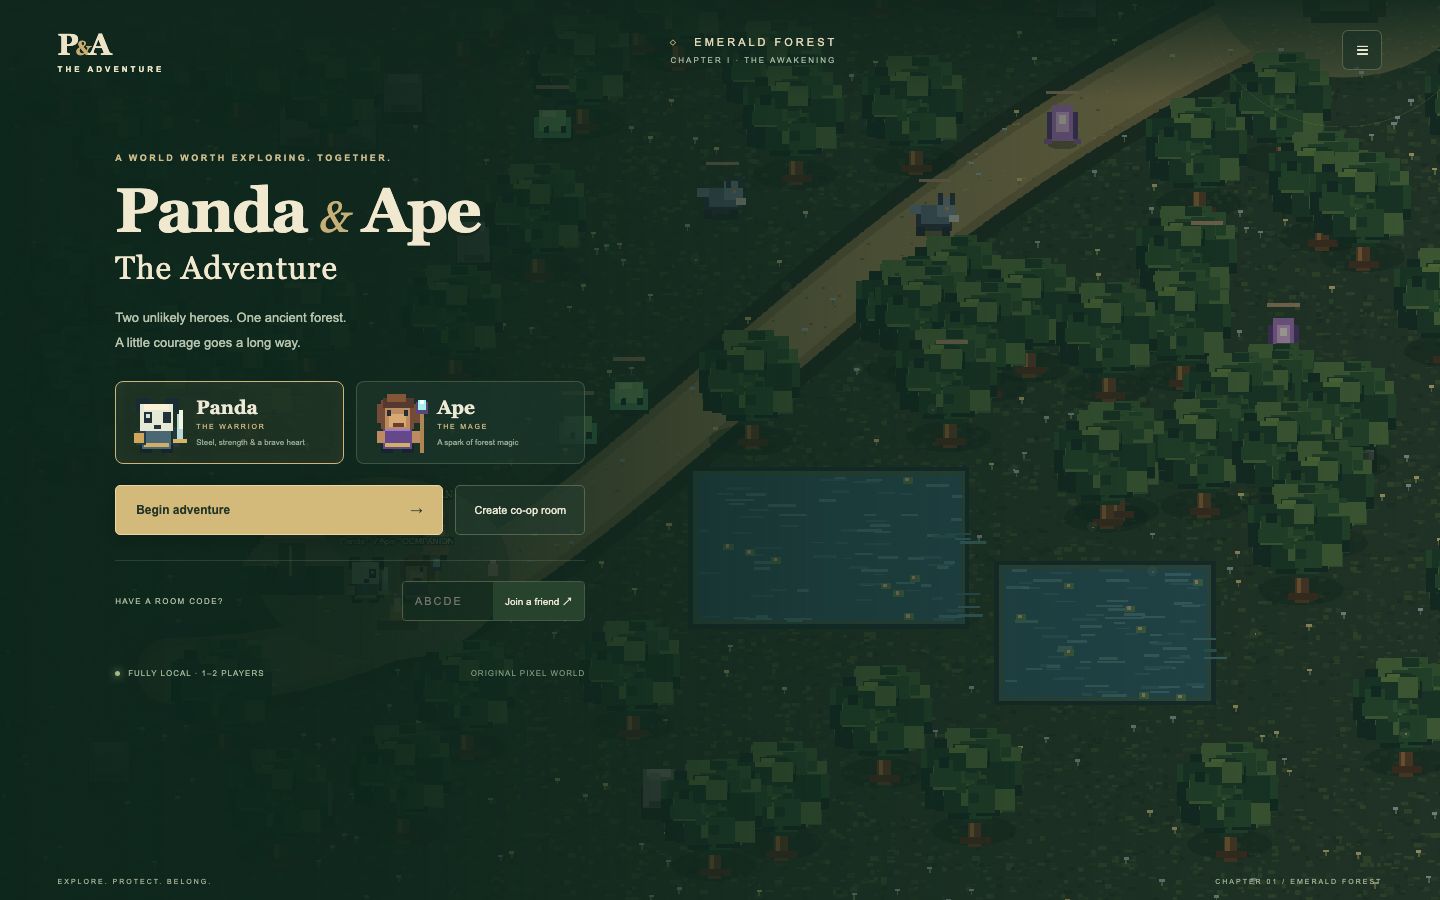
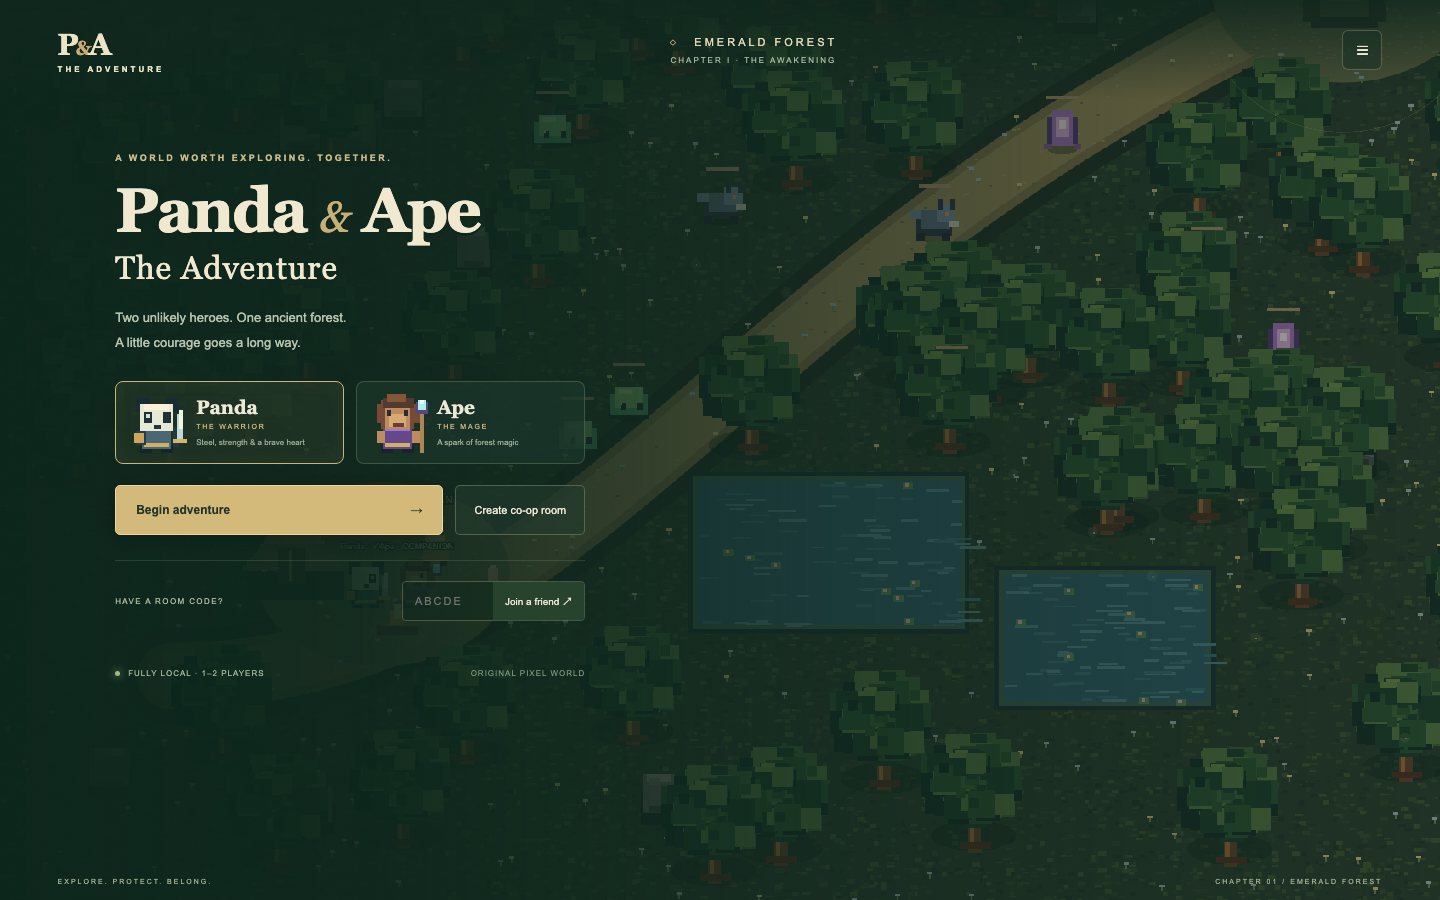
fix: harden reconnect lifecycle and document verified vertical slice

diff --git a/apps/game/src/main.ts b/apps/game/src/main.ts
@@ -242,7 +242,9 @@ function connect(message: ClientMessage, isReconnect = false) {
       if (mode === 'menu') $('menu-error').textContent = m.message;
       else notify(m.message);
       if (!welcomed) {
-        quitting = true;
+        quitting = !(
+          isReconnect && m.message === 'This session is already connected.'
+        );
         connecting = false;
         current.close();
       }
@@ -268,10 +270,10 @@ function connect(message: ClientMessage, isReconnect = false) {
       $('connection-status').textContent = 'CO-OP · RECONNECTING';
       notify('Connection lost. Restoring your session…');
       if (Date.now() - reconnectStart < 55000)
-        setTimeout(
-          () => connect({ type: 'resume', code: roomCode, token }, true),
-          1200,
-        );
+        setTimeout(() => {
+          if (mode === 'online' && !quitting && socket === current)
+            connect({ type: 'resume', code: roomCode, token }, true);
+        }, 1200);
       else {
         notify(
           'Reconnect expired. Return to the title screen and create a new room.',
@@ -509,6 +511,7 @@ function readInput(): Input {
   return i;
 }
 class ForestScene extends Phaser.Scene {
+  vegetation: Phaser.GameObjects.Image[] = [];
   sprites = new Map<string, Phaser.GameObjects.Sprite>();
   labels = new Map<string, Phaser.GameObjects.Text>();
   shadows = new Map<string, Phaser.GameObjects.Ellipse>();
@@ -529,10 +532,12 @@ class ForestScene extends Phaser.Scene {
         this.add
           .ellipse(o.x + o.w / 2, o.y + 12, 100, 36, 0x112e25, 0.34)
           .setDepth(o.y - 2);
-        this.add
-          .image(o.x + o.w / 2, o.y + o.h, 'tree')
-          .setOrigin(0.5, 0.94)
-          .setDepth(o.y + o.h);
+        this.vegetation.push(
+          this.add
+            .image(o.x + o.w / 2, o.y + o.h, 'tree')
+            .setOrigin(0.5, 0.94)
+            .setDepth(o.y + o.h),
+        );
       }
     this.add.sprite(WORLD.npc.x, WORLD.npc.y, 'npc').setDepth(WORLD.npc.y);
     this.add
@@ -647,6 +652,8 @@ class ForestScene extends Phaser.Scene {
         }
       }
     }
+    for (const tree of this.vegetation)
+      tree.setAngle(Math.sin(time * 0.0007 + tree.x * 0.01) * 0.3);
     this.water.clear();
     for (const o of obstacles)
       if (o.kind === 'water') {

diff --git a/tests/browser/game.spec.ts b/tests/browser/game.spec.ts
@@ -125,3 +125,48 @@ test('two browser windows join one room and observe shared movement and combat',
     await cb.close();
   }
 });
+
+test('transport loss restores the same session and returning to title cancels pending reconnect', async ({
+  page,
+}) => {
+  await page.addInitScript(() => {
+    const NativeWebSocket = window.WebSocket;
+    window.WebSocket = class extends NativeWebSocket {
+      constructor(url: string | URL, protocols?: string | string[]) {
+        super(url, protocols);
+        (window as unknown as { testSocket: WebSocket }).testSocket = this;
+      }
+    };
+  });
+  await page.goto('/');
+  await page.getByRole('button', { name: 'Create co-op room' }).click();
+  await expect(page.locator('#connection-status')).toHaveText(
+    'CO-OP · CONNECTED',
+  );
+  const playerId = await page.locator('#hud').getAttribute('data-player-id');
+  await page.evaluate(() =>
+    (window as unknown as { testSocket: WebSocket }).testSocket.close(),
+  );
+  await expect(page.locator('#connection-status')).toHaveText(
+    'CO-OP · RECONNECTING',
+  );
+  await expect(page.locator('#connection-status')).toHaveText(
+    'CO-OP · CONNECTED',
+    { timeout: 6000 },
+  );
+  await expect(page.locator('#hud')).toHaveAttribute(
+    'data-player-id',
+    playerId!,
+  );
+  await page.evaluate(() =>
+    (window as unknown as { testSocket: WebSocket }).testSocket.close(),
+  );
+  await expect(page.locator('#connection-status')).toHaveText(
+    'CO-OP · RECONNECTING',
+  );
+  await page.getByRole('button', { name: 'Settings' }).click();
+  await page.getByRole('button', { name: 'Return to title' }).click();
+  await page.waitForTimeout(1800);
+  await expect(page.locator('#menu')).toBeVisible();
+  await expect(page.locator('#hud')).toBeHidden();
+});

diff --git a/docs/VALIDATION.md b/docs/VALIDATION.md
@@ -1,0 +1,54 @@
+# Executed validation — 8 October 2026
+
+Reference environment: macOS on Apple Silicon, Node 25.9.0 / npm 11.12.1 on the host, Node 24 in Docker, OrbStack Docker 29.4.0. Recommended development runtime is Node 24 LTS. Dependencies are pinned in the lockfile; Phaser is exactly 4.2.1.
+
+| Check                                       | Actual result                                                    |
+| ------------------------------------------- | ---------------------------------------------------------------- |
+| TypeScript strict check                     | Passed for shared, server, game, tests, scripts and tool configs |
+| ESLint                                      | Passed                                                           |
+| Prettier check                              | Passed                                                           |
+| Vitest                                      | 14 tests passed across 3 files                                   |
+| Shared package build                        | Passed                                                           |
+| Server production build                     | Passed                                                           |
+| Vite production build                       | Passed; bundled local engine/assets, no runtime CDN              |
+| Chromium against production nginx           | 2 browser tests passed                                           |
+| Chromium against Vite development container | Same 2 browser tests passed                                      |
+| Production Compose config                   | Passed                                                           |
+| Development Compose config                  | Passed                                                           |
+| Production server + web images, ARM64       | Built successfully; both run healthy                             |
+| Production server + web images, AMD64       | Built successfully under emulation on Apple Silicon              |
+| Non-root development image                  | Built and started successfully; Vite and server reachable        |
+| `npm run test:docker`                       | Passed real Compose restart and two-session restoration          |
+| npm audit                                   | Zero reported vulnerabilities after dependency fixes             |
+
+## What the tests prove
+
+Simulation tests exercise diagonal normalization, obstacle sliding, damage/cooldowns, combo damage, ranged projectiles, shield reduction, invulnerability, potion healing/revival, XP/levels, loot, NPC quest rewards, boss defeat and the guardian's pre-damage warning.
+
+Room/protocol tests verify shared world membership, unique hero ownership, the two-player cap, invalid-room rejection, active-session takeover rejection, disconnect reservation/expiry, and malformed/unbounded input rejection. The persistence test performs concurrent saves, restores HP and reconnect identity, preserves a disconnected token's expiry and ignores corrupt snapshots.
+
+The real WebSocket test starts an isolated server on port 3002. Panda and Ape join one room, duplicate selection is rejected, Ape observes Panda's movement, both receive damage to the same enemy IDs, saving is acknowledged and a disconnected Ape reconnects with the same identity. Additional socket tests enforce message rate and payload limits.
+
+Browser tests launch independent Chromium contexts. They verify a visible rendered canvas/HUD, solo movement, inventory, Escape pause, local save, Panda/Ape selection, one shared room, both rendered players, mutual observed movement, shared enemy damage and tab-local reconnect after page reload. A third test verifies automatic recovery after transport loss and cancellation of a pending reconnect when returning to title. No JavaScript page errors occurred in the successful runs. Screenshots are checked visually and selected captures are committed under `docs/screenshots/`.
+
+The Docker test uses `/ws` through nginx, creates both players, moves and saves, runs `docker compose restart`, and reconnects both original tokens. It compares hero identities, positions, HP and shared enemy IDs/HP after restart. Both production services are healthy and use non-root users (`node`, `101`). The internal server port is not published.
+
+## Earlier failures and corrections
+
+The sandbox initially blocked npm network access and the isolated integration server's local port. Those checks were rerun with execution access and passed; none is counted as passed from the blocked runs. GitHub keychain authentication also required execution access.
+
+Actual Phaser 4 type errors exposed removed `Geom.Point` and the canvas spritesheet texture contract; both were corrected against the installed 4.2.1 sources. Browser tests found a zero-sized HUD parent, Escape immediately cancelling the newly opened native dialog, and mismatched storage for reload recovery. These were corrected and the complete browser scenarios rerun successfully. Critical transitive dependency findings were resolved by pinning/overriding the patched version; the final online audit reported zero findings.
+
+Port 8081 was occupied by another service. It was left untouched. The development smoke test used 18080, and only the project's temporary test container was removed afterward. The production game remains at port 8080.
+
+## Scope and limits
+
+- Local authoritative co-op is tested; Internet matchmaking/accounts and a public production-service threat model are outside this slice.
+- AMD64 images were built on Apple Silicon under emulation, not exercised on a separate physical Linux AMD64 machine. ARM64 production and development stacks were exercised directly.
+- Chromium was tested; Safari/Firefox and a physical gamepad were not manually exercised.
+- No universal 60 FPS claim: this is a responsive desktop slice targeting 60 FPS. Hardware-specific profiling remains open.
+- Current directional art and attack/cast poses are simplified procedural assets. More animation frames, advanced pathfinding, additional regions, permanent campaign saves and touch movement remain extensions, documented in `ARCHITECTURE.md`.
+- Recent co-op recovery has a 60-second token window. Historical snapshots remain in the volume but do not become permanent campaign saves.
+- GitHub Actions is configured to execute checks and multi-architecture builds remotely. Remote execution status must be checked separately; local success does not imply remote success.
+
+GitHub target: **private** `nfekete82/panda-ape-adventure`; checked absent before creation. No existing repository history was replaced.

diff --git a/docs/ARCHITECTURE.md b/docs/ARCHITECTURE.md
@@ -4,7 +4,7 @@
 
 `shared` is platform independent. Movement resolves X then Y for obstacle sliding, normalizes diagonals, and clamps step duration. Terrain obstacles are generated from a fixed seed shared by server and browser. Hero stats, cooldowns, shield, mana, attacks, healing, enemy aggro, knockback, invulnerability, drops and shared XP are implemented here. Serialization sends plain data; no Phaser objects enter the protocol.
 
-`game` renders a baked terrain canvas plus depth-sorted sprites, dynamic water, fireflies, firelight and combat feedback. The world is 1920×1440; UI design targets 1920×1080 with responsive viewport resizing and crisp pixel rendering. Hero sheets contain 64×64 frames, four walk frames and eight directional rows. Current sprites share simplified south/side/back poses across directions; attack uses weapon motion/effects, and hit animation uses tint/invulnerability. Future dedicated sheets can be integrated behind the existing renderer.
+`game` renders a baked terrain canvas plus depth-sorted sprites, dynamic water, gently swaying vegetation, fireflies, firelight and combat feedback. The world is 1920×1440; UI design targets 1920×1080 with responsive viewport resizing and crisp pixel rendering. Hero sheets contain 64×64 frames, four walk frames and eight directional rows. Current sprites share simplified south/side/back poses across directions; attack uses weapon motion/effects, and hit animation uses tint/invulnerability. Future dedicated sheets can be integrated behind the existing renderer.
 
 `server` owns room membership and all online state. `ws` is sufficient for this protocol: Colyseus would add schemas/matchmaking without reducing the small slice's simulation requirements. There is no engine-specific server compatibility requirement because Phaser only renders client data.
 
